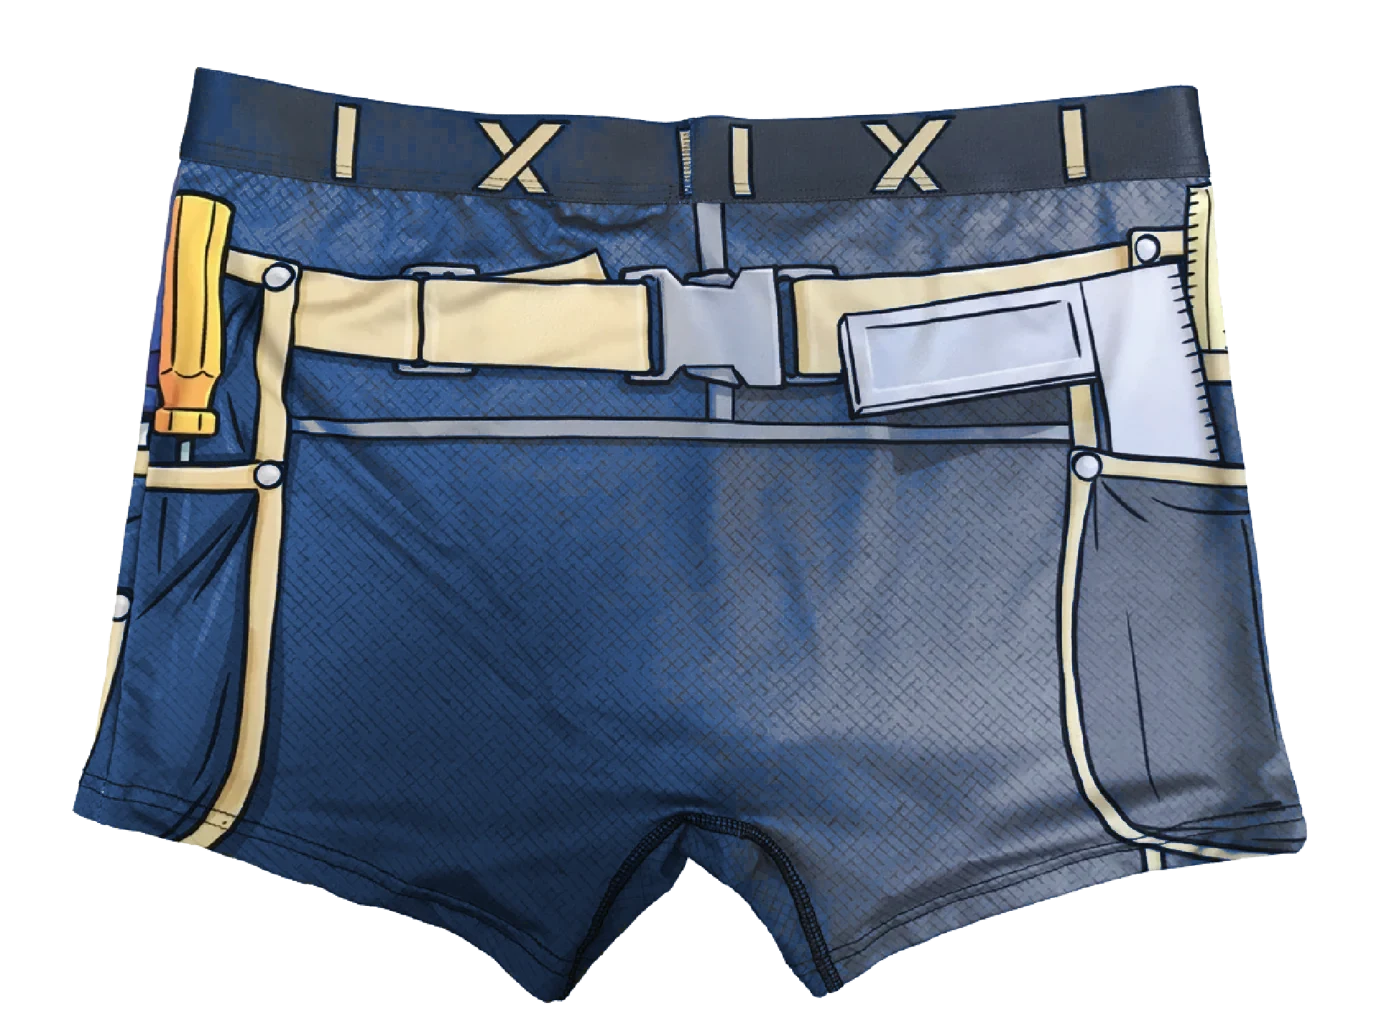
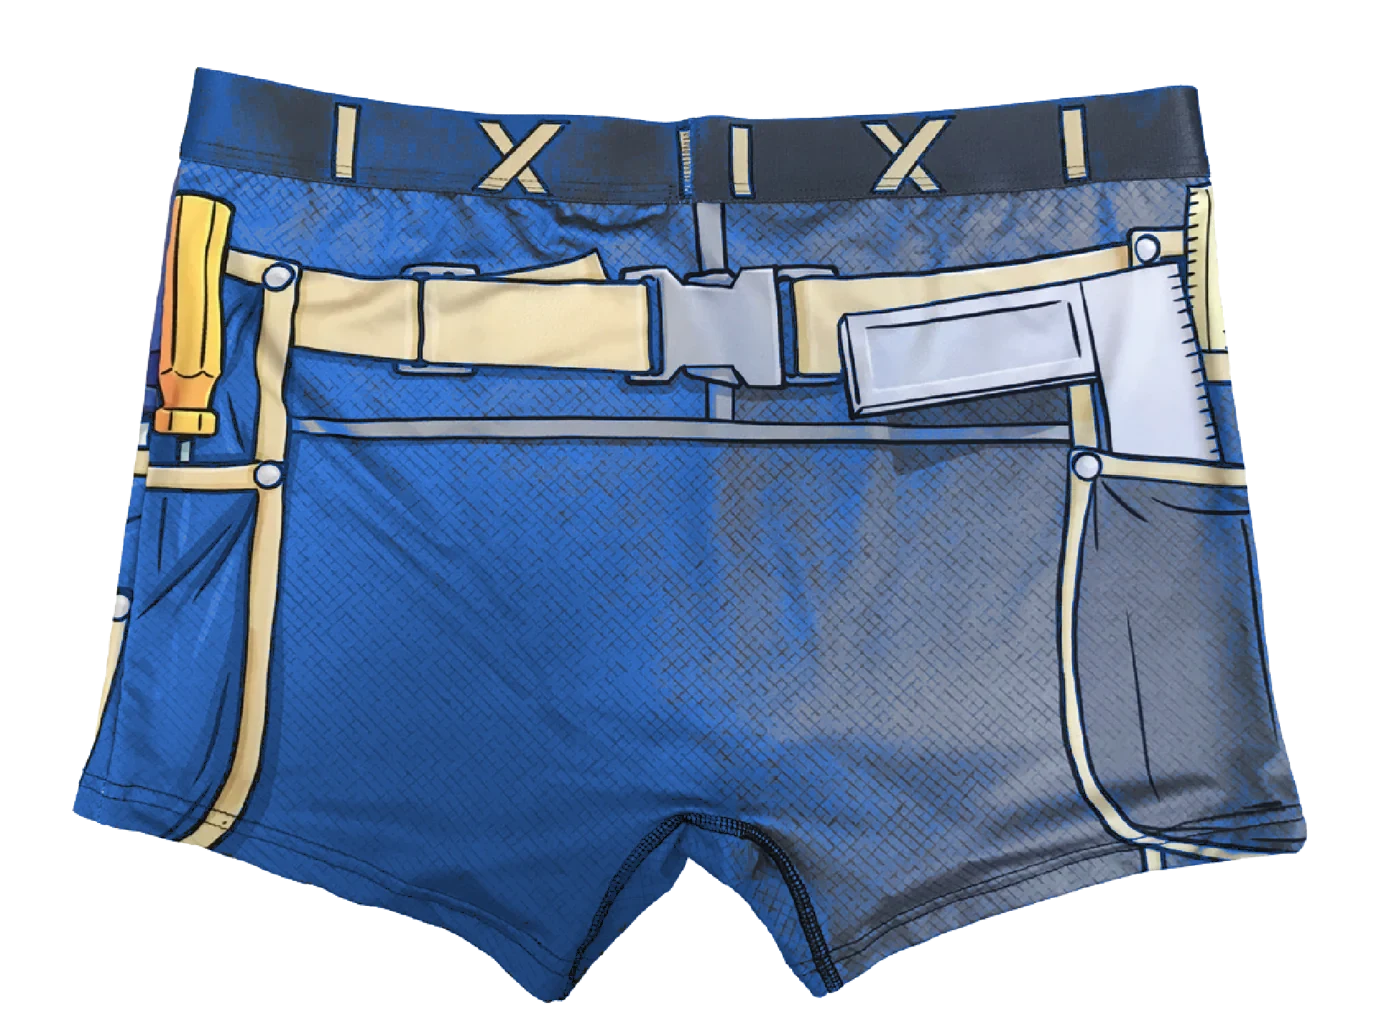
smartcraft: klarare blå på baksidan, matchar framsidan
Claude-Session: https://claude.ai/code/session_01AE5iKwkdq4Ei7XsGbvuTHc

diff --git a/smartcraft/index.html b/smartcraft/index.html
@@ -337,7 +337,7 @@
   let cartTracked=false;
   const qty={}; // "svart-M" -> n
   let color="svart", side="";
-  function setHero(){const h=document.getElementById("heroImg"); h.style.opacity=0; setTimeout(()=>{h.src="img/"+color+side+".webp"; h.alt="Hantverkarkalsongen, "+COLORS[color]+(side?" baksida":""); h.style.opacity=1;},180);}
+  function setHero(){const h=document.getElementById("heroImg"); h.style.opacity=0; setTimeout(()=>{h.src="img/"+color+side+".webp?v=2"; h.alt="Hantverkarkalsongen, "+COLORS[color]+(side?" baksida":""); h.style.opacity=1;},180);}
   function showSide(sd){side=sd; document.querySelectorAll(".flip button").forEach(x=>x.classList.toggle("on",x.dataset.side===sd)); setHero();}
   let auto=setInterval(()=>showSide(side?"":"-bak"),3500);
   document.querySelectorAll(".flip button").forEach(b=>b.addEventListener("click",()=>{clearInterval(auto); showSide(b.dataset.side);}));
